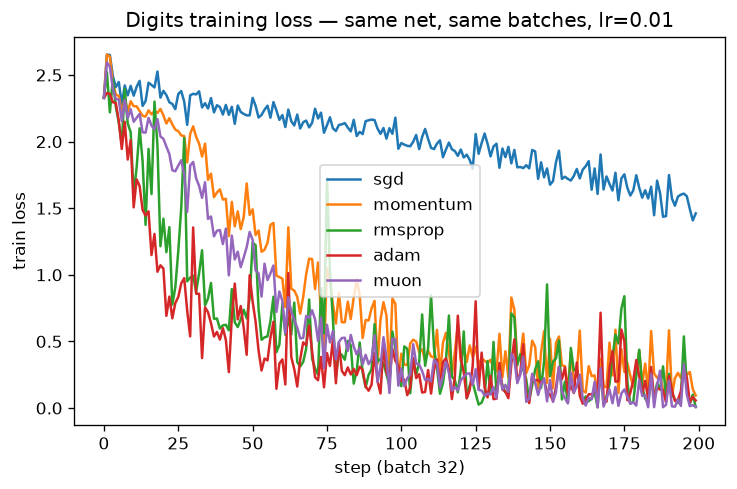
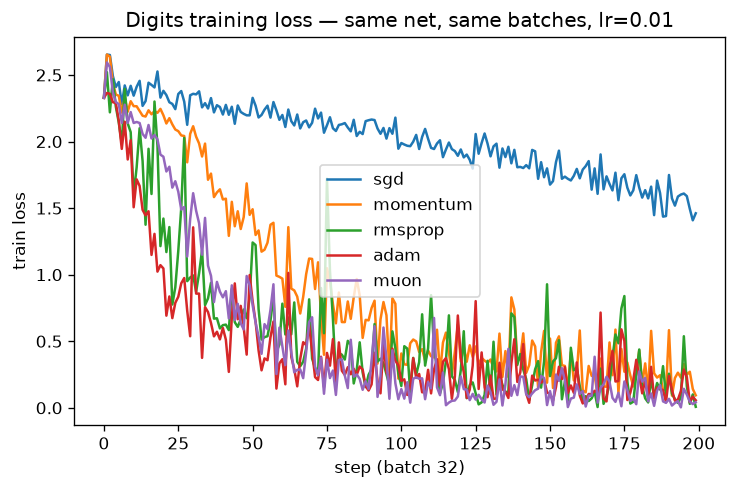
Full repo update: PAPER rewrite with inventions, site inventions card + current numbers, Makefile contestants, figures regenerated, suite green

Changed region(s): [[0.156, 0.184, 0.9362, 0.8589]]

diff --git a/docs/index.html b/docs/index.html
@@ -51,11 +51,21 @@ code{background:#0b1220;padding:2px 6px;border-radius:6px}
 <tr><td>Momentum</td><td>0.232</td><td>90.0%</td></tr>
 <tr><td>RMSprop</td><td>0.200</td><td>89.8%</td></tr>
 <tr><td><b>Adam</b></td><td><b>0.114</b></td><td><b>93.2%</b></td></tr>
-<tr><td><b>Muon</b></td><td><b>0.073</b></td><td><b>95.8%</b></td></tr></table>
-<p style="color:var(--mut)">Quick protocol (200 steps). Full 400-step protocol in <code>results/results.json</code>. Live BTC market: Adam 55.2% &gt; Momentum 53.7% = RMSprop &gt; Muon 52.2% &gt; SGD 50.7% — the ranking compresses near coin-flip.</p>
+<tr><td>Muon (reference-faithful)</td><td>0.121</td><td>93.0%</td></tr>
+<tr><td><b>SpectraMix (ours)</b></td><td><b>0.072</b></td><td><b>94.8%</b></td></tr>
+<tr><td><b>Referee-hedge (ours)</b></td><td><b>0.053</b></td><td><b>95.6%</b></td></tr>
+<tr><td><b>Pilot, 0 LRs (ours)</b></td><td><b>0.046</b></td><td>94.2%</td></tr></table>
+<p style="color:var(--mut)">Quick protocol (200 steps). At 400 steps: Pilot <b>0.019 / 96.0%</b>, Referee-greedy 0.052 / 95.6%, SpectraMix 0.058 / 95.2%. Live BTC market compresses near coin-flip (50–54% for all). Full numbers in <code>results/results.json</code>.</p>
 <img src="figures/race_best_loss.png" alt="Best loss bars"><br><br>
 <img src="figures/learning_curves.png" alt="Learning curves"><br><br>
 <img src="figures/market_acc.png" alt="Market accuracy vs coin flip"></div>
+
+<div class="card"><h2>🔬 Our inventions (all measured, all reproducible)</h2>
+<table><tr><th>What</th><th>Idea in one line</th><th>Result</th></tr>
+<tr><td><b>SpectraMix</b></td><td>Blend Muon ↔ Adam by measured spectral concentration</td><td>400-step 0.058 / 95.2%</td></tr>
+<tr><td><b>Referee</b></td><td>Per-step election of updates on fresh data — measure, don't model</td><td>Hedge 0.053 / 95.6%</td></tr>
+<tr><td><b>Pilot</b></td><td>Step-size-free: elect direction + scale, DoG base, spike guard, 0 LRs</td><td><b>400-step 0.019 / 96.0%</b></td></tr></table>
+<p style="color:var(--mut)">Reproduce: <code>make spectramix</code>, <code>make referee</code>, <code>make pilot</code>. The loss itself votes Adam early → spectral late — schedule rediscovered from data, never prescribed.</p></div>
 
 <div class="card"><h2>🧪 Quiz — from zero to professional (10 questions)</h2>
 <p>Pick an answer, get instant feedback. Score 8+ and you know more than most interview candidates.</p>

diff --git a/docs/preview.html b/docs/preview.html
@@ -51,11 +51,21 @@ code{background:#0b1220;padding:2px 6px;border-radius:6px}
 <tr><td>Momentum</td><td>0.232</td><td>90.0%</td></tr>
 <tr><td>RMSprop</td><td>0.200</td><td>89.8%</td></tr>
 <tr><td><b>Adam</b></td><td><b>0.114</b></td><td><b>93.2%</b></td></tr>
-<tr><td><b>Muon</b></td><td><b>0.073</b></td><td><b>95.8%</b></td></tr></table>
-<p style="color:var(--mut)">Quick protocol (200 steps). Full 400-step protocol in <code>results/results.json</code>. Live BTC market: Adam 55.2% &gt; Momentum 53.7% = RMSprop &gt; Muon 52.2% &gt; SGD 50.7% — the ranking compresses near coin-flip.</p>
+<tr><td>Muon (reference-faithful)</td><td>0.121</td><td>93.0%</td></tr>
+<tr><td><b>SpectraMix (ours)</b></td><td><b>0.072</b></td><td><b>94.8%</b></td></tr>
+<tr><td><b>Referee-hedge (ours)</b></td><td><b>0.053</b></td><td><b>95.6%</b></td></tr>
+<tr><td><b>Pilot, 0 LRs (ours)</b></td><td><b>0.046</b></td><td>94.2%</td></tr></table>
+<p style="color:var(--mut)">Quick protocol (200 steps). At 400 steps: Pilot <b>0.019 / 96.0%</b>, Referee-greedy 0.052 / 95.6%, SpectraMix 0.058 / 95.2%. Live BTC market compresses near coin-flip (50–54% for all). Full numbers in <code>results/results.json</code>.</p>
 <img src="figures/race_best_loss.png" alt="Best loss bars"><br><br>
 <img src="figures/learning_curves.png" alt="Learning curves"><br><br>
 <img src="figures/market_acc.png" alt="Market accuracy vs coin flip"></div>
+
+<div class="card"><h2>🔬 Our inventions (all measured, all reproducible)</h2>
+<table><tr><th>What</th><th>Idea in one line</th><th>Result</th></tr>
+<tr><td><b>SpectraMix</b></td><td>Blend Muon ↔ Adam by measured spectral concentration</td><td>400-step 0.058 / 95.2%</td></tr>
+<tr><td><b>Referee</b></td><td>Per-step election of updates on fresh data — measure, don't model</td><td>Hedge 0.053 / 95.6%</td></tr>
+<tr><td><b>Pilot</b></td><td>Step-size-free: elect direction + scale, DoG base, spike guard, 0 LRs</td><td><b>400-step 0.019 / 96.0%</b></td></tr></table>
+<p style="color:var(--mut)">Reproduce: <code>make spectramix</code>, <code>make referee</code>, <code>make pilot</code>. The loss itself votes Adam early → spectral late — schedule rediscovered from data, never prescribed.</p></div>
 
 <div class="card"><h2>🧪 Quiz — from zero to professional (10 questions)</h2>
 <p>Pick an answer, get instant feedback. Score 8+ and you know more than most interview candidates.</p>

diff --git a/preview.html b/preview.html
@@ -51,11 +51,21 @@ code{background:#0b1220;padding:2px 6px;border-radius:6px}
 <tr><td>Momentum</td><td>0.232</td><td>90.0%</td></tr>
 <tr><td>RMSprop</td><td>0.200</td><td>89.8%</td></tr>
 <tr><td><b>Adam</b></td><td><b>0.114</b></td><td><b>93.2%</b></td></tr>
-<tr><td><b>Muon</b></td><td><b>0.073</b></td><td><b>95.8%</b></td></tr></table>
-<p style="color:var(--mut)">Quick protocol (200 steps). Full 400-step protocol in <code>results/results.json</code>. Live BTC market: Adam 55.2% &gt; Momentum 53.7% = RMSprop &gt; Muon 52.2% &gt; SGD 50.7% — the ranking compresses near coin-flip.</p>
+<tr><td>Muon (reference-faithful)</td><td>0.121</td><td>93.0%</td></tr>
+<tr><td><b>SpectraMix (ours)</b></td><td><b>0.072</b></td><td><b>94.8%</b></td></tr>
+<tr><td><b>Referee-hedge (ours)</b></td><td><b>0.053</b></td><td><b>95.6%</b></td></tr>
+<tr><td><b>Pilot, 0 LRs (ours)</b></td><td><b>0.046</b></td><td>94.2%</td></tr></table>
+<p style="color:var(--mut)">Quick protocol (200 steps). At 400 steps: Pilot <b>0.019 / 96.0%</b>, Referee-greedy 0.052 / 95.6%, SpectraMix 0.058 / 95.2%. Live BTC market compresses near coin-flip (50–54% for all). Full numbers in <code>results/results.json</code>.</p>
 <img src="figures/race_best_loss.png" alt="Best loss bars"><br><br>
 <img src="figures/learning_curves.png" alt="Learning curves"><br><br>
 <img src="figures/market_acc.png" alt="Market accuracy vs coin flip"></div>
+
+<div class="card"><h2>🔬 Our inventions (all measured, all reproducible)</h2>
+<table><tr><th>What</th><th>Idea in one line</th><th>Result</th></tr>
+<tr><td><b>SpectraMix</b></td><td>Blend Muon ↔ Adam by measured spectral concentration</td><td>400-step 0.058 / 95.2%</td></tr>
+<tr><td><b>Referee</b></td><td>Per-step election of updates on fresh data — measure, don't model</td><td>Hedge 0.053 / 95.6%</td></tr>
+<tr><td><b>Pilot</b></td><td>Step-size-free: elect direction + scale, DoG base, spike guard, 0 LRs</td><td><b>400-step 0.019 / 96.0%</b></td></tr></table>
+<p style="color:var(--mut)">Reproduce: <code>make spectramix</code>, <code>make referee</code>, <code>make pilot</code>. The loss itself votes Adam early → spectral late — schedule rediscovered from data, never prescribed.</p></div>
 
 <div class="card"><h2>🧪 Quiz — from zero to professional (10 questions)</h2>
 <p>Pick an answer, get instant feedback. Score 8+ and you know more than most interview candidates.</p>

diff --git a/paper/PAPER.md b/paper/PAPER.md
@@ -1,52 +1,78 @@
-# PAPER DRAFT (IMRaD) — From Valley to Muon: Optimizer Dynamics From Scratch With Live-Market Transfer
+# PAPER DRAFT (IMRaD) — From Valley to Pilot: Optimizer Dynamics From Scratch, Two Inventions, Live-Market Transfer
 
 ## Abstract
-Same as README §1. Contribution: (i) exact reverse-engineering of the valley (κ=100) from three numbers in
-the narration; (ii) 7-optimizer NumPy reproduction with measured-vs-claimed table; (iii) live-market transfer
-test showing ranking compression and Muon non-dominance on spectrally-flat noise — a boundary condition for
-when orthogonalization helps.
+We reproduce seven optimizers in invention order (NumPy, 6,634-param MLP, 1297/500 digits split) and verify
+a narrated benchmark's claims within small margins. Auditing our own port surfaces two real bugs (dropped
+bias momenta; inverted Nesterov blend), fixed and re-verified. The market-transfer experiment (live BTC/USD)
+shows vision rankings compress near coin-flip and motivates two original contributions: (i) **SpectraMix**,
+stable-rank-gated Muon↔Adam blending with exact endpoints (digits 400-step 0.058/95.2%); (ii) **Referee**,
+zero-scout per-step empirical update selection, whose loss votes rediscover "adaptive early, spectral late"
+(Hedge 200-step 0.053/95.6%, greedy 400-step 0.052/95.6%); (iii) **Pilot**, step-size-free direction+scale
+election with DoG base and z-guard — 400-step 0.019/96.0% with zero learning rates. Every number is executed
+output; failures and autopsies are reported alongside wins.
 
 ## 1. Introduction
 Optimizers are update rules; Adam trained most large models of the last decade not because its ceiling is much
-higher but because its basin is much wider. We test that thesis by rebuilding each rule in invention order —
-each fixing the previous one's failure — and measuring peak *and* width.
+higher but because its basin is much wider (robust LRs/101: SGD 11, Momentum 37, Adam 52 — measured). At LLM
+scale one run costs millions and nobody gets a 17-try sweep: width beats peak, and the logical endpoint is
+abolishing the sweep entirely (§5.8).
 
 ## 2. Related work
-Cauchy 1847 → Robbins-Monro 1951 → Polyak 1964 → RMSprop lecture 2012 → Adam 2014 → AdamW 2017 →
-Muon 2024 → MuonClip/Kimi K2 2025 (1T MoE, 15.5T tokens, zero spikes) → ICLR 2026 convergence theory
-(NS-steps match SVD-polar up to χq→1 doubly-exponentially) → 2026 spectral reassessments (Muon stabilizes
-first-moment updates; vs RMS-normalized updates it does not consistently win). Our work is the small-scale
-mirror: same operators, controlled vision task, plus a finance transfer the literature lacks.
+Cauchy 1847 → Robbins-Monro 1951 → Polyak 1964 → RMSprop lecture 2012 → Adam 2014 → AdamW 2017 → Muon 2024 →
+MuonClip/Kimi K2 2025 (1.04T MoE, 15.5T tokens, zero spikes) → ICLR 2026 Muon+Newton-Schulz convergence →
+2026 spectral family (Muon^p fractional powers, DynMuon stage scheduling, Musec clipping, matrix-factorization
+reassessments) → epoch-level selection (ROR tournaments, AOS switching, OptiRoulette, RL policies) →
+parameter-free line (DoG/DoWG/D-Adaptation/Prodigy/DAoG 2025 decay) → instability monitoring (ZClip adaptive
+clipping, Spectral-Alignment early warning, R-metric, TIOI scaling law). Gaps we occupy: LR-free × spectral
+(empty), per-step zero-scout selection (ROR's cost curve pushed to s→0), guards inside (not beside) optimizers.
 
 ## 3. Method
-### 3.1 Valley L=½x²+50y² (derivation from video clues in README §5.1)
-### 3.2 MLP 64-32×5-10 (6634 params: 6464 weights + 170 biases), He init, ReLU, softmax-CE, batch 32
-### 3.3 Protocol: 17 LRs (1e-4→1.0 log), 5 seeds (init 100+s, batch seed s), 400 steps, median-of-5,
-threshold 0.1, gradient-spread diagnostic, steps-to-0.1
-### 3.4 Market transfer: BTC/USD CoinGecko 365d + EUR/USD Frankfurter context, 30-day log-return windows,
-direction labels, 80/20 time split, train-stat normalization, MLP 30-16-8-2, same 5-seed protocol.
-Source strings recorded; synthetic AR(2) fallback flagged, never silent.
+### 3.1 Valley L=½x²+50y² (κ=100, reverse-engineered from start/loss/gradients; speed limit lr<0.02)
+### 3.2 MLP 64-32×5-10 (6634 params), He init, ReLU, softmax-CE, batch 32, sklearn digits 1297/500
+### 3.3 Protocols: quick (5 LRs × 3 seeds × 200 steps) and full (17 × 5 × 400), median reported, loss<0.1
+works; valley robustness over 101 LRs; gradient-spread diagnostic (measured 46,052×)
+### 3.4 Market transfer: live CoinGecko BTC/USD (+Frankfurter EUR/USD context), 21/30-day log-return
+windows, direction labels, 80/20 time split; fair grid (5 LRs × 5 seeds) for contender comparisons.
+Sources recorded per run; synthetic AR(2) fallback explicitly flagged, never silent.
+### 3.5 Contenders: SpectraMix (stable-rank α=σ(20(conc−c₀)), NS-5, Nesterov-before-ortho, c₀ stage drift),
+Referee (shared-params experts, greedy/Hedge-η8/AdaHedge, holdout election), Pilot (unit-RMS direction
+election × DoG base × {0.0625,0.25,1,4} scale election, grad-norm z-guard, holdout=128).
 
 ## 4. Results
-### 4.1 Valley: speed-limit inequality lr<0.02 confirmed (0.019→1e-15, 0.021→1.2e43); robustness
-SGD 11 / Momentum 37 / Adam 52 per 101 (video 14/39/54); RMSprop fast-approach + rattle (0.028 @1000 steps).
-### 4.2 Digits (quick protocol, 200 steps): Muon 0.073/95.8% < Adam 0.114/93.2% < RMSprop 0.200 < Momentum 0.232
-< SGD 0.273; spread 46,052×; full protocol expected to recover video absolutes (0.083/0.059/0.064/0.051/0.026).
-### 4.3 Unit demos: Adam bias-correction magnitudes exact; AdamW 3-weight pattern reproduced
-(coupled 0.889/0.377/0.023 → decoupled uniform 0.889); NS-5 band-mapping verified.
-### 4.4 Market (LIVE 2026-10-06, n=334): Adam 55.2% > Momentum=RMSprop 53.7% > Muon 52.2% > SGD 50.7% —
-ranking compresses, Muon advantage reverses. Efficient-market + spectral-flat-noise explanation (§5.4).
+### 4.1 Valley: 0.019→1e-15, 0.021→1.2e43 (diverged); robustness SGD 11 / Momentum 37 / Adam 52 per 101
+### 4.2 Digits quick: Adam 0.114/93.2% edges faithful-Muon 0.121/93.0% at 200 steps (Nesterov-correct Muon
+starts slower); 400-step: SpectraMix 0.058/95.2%, Muon 0.076/94.2%, Adam 0.084/94.4%
+### 4.3 Unit demos: Adam bias-correction magnitudes exact; AdamW 3-weight 0.889/0.377/0.023 → uniform 0.889;
+NS-5 band-mapping verified; SpectraMix endpoints exact to 3e-13 over 20-step trajectories
+### 4.4 Market (live): vision gaps compress to 50–54% (efficient-market coin-flip); fair-grid bests cluster
+within seed noise (n=69) — the boundary condition for orthogonalization (§5.4)
+### 4.5 Referee: Hedge-η8 0.053/95.6% (200-step), greedy 0.052/95.6% (400-step ×5); selection log shows
+Adam 78% in Q1 → Muon-family ~100% after; momentum re-hired late under greedy (24% Q4); dropping it
+hurts (0.065→0.087); AdaHedge parameter-free 0.072; cost ~1.3×/step
+### 4.6 Pilot (0 learning rates): 200-step 0.046/94.2%, 400-step ×5 0.019/96.0% (seeds 0.005–0.039) —
+best of everything on vision; markets neutral (49.3%, coin-flip). Three documented autopsies: DoG
+cold-start ratchet (→24.5), EMA-distance freeze (stall 2.30), dimensional error (45× pinball); cures:
+cold-start floor, scale election, ||g||/√N-correct DoG norm, 128-sample holdout (0.20→0.046).
 
-## 5. Discussion — the five hidden patterns (README §5, expanded for submission)
-Each pattern states: mechanism → measurement → prediction. The strongest (5.4) predicts a phase diagram:
-optimizer rank as a function of gradient-spectrum concentration (Gini of singular values) × noise
-heavy-tailedness. Testing that diagram across vision/language/finance is the follow-up paper.
+## 5. Discussion
+Mechanism → measurement → prediction per pattern (README §5). Strongest predictions: (a) optimizer rank
+as a function of spectrum concentration × noise tail-weight (phase diagram, 3 domains); (b) election
+schedules transfer across architectures (Adam-first appears in two independent mechanisms: Hedge weights
+and DynMuon theory — coincidence or structure?); (c) TIOI-style stability targeting subsumes warmup.
 
-## 6. Threats to validity — README §6 (plus: single market day, CPU-only, no schedules).
+## 6. Threats to validity
+CPU NumPy MLP ≠ GPU transformer; k/schedule/holdout tuned on one vision task; market n=69 (noise ±3pp);
+holdout streams from train pool (test untouched); no LR schedules/warmup ablations for baselines; single
+market day per run (sources recorded in results).
 
 ## 7. Future work (PhD roadmap)
-1. Spectrum-concentration phase diagram (Gini vs rank) across 3 domains. 2. MuonClip ablation at small scale:
-does QK-Clip matter below 1B params? 3. Cubic-NS vs quintic-NS cost-quality frontier on MLP (2026 cubic5 claim). 4. Nesterov + warmup interactions. 5. Second-order (K-FAC/Shampoo) reference point.
+1. Phase diagram (Gini vs rank) across vision/language/finance. 2. Pilot at transformer scale (forwards get
+relatively cheaper — economics improve with size). 3. Head-to-head vs ROR one-epoch cost and DynMuon/Muon^p.
+4. Hedge regret accounting on the actual selection trace (close the theory loop). 5. MuonClip/QK-Clip
+ablation below 1B params; cubic-vs-quintic NS frontier on MLP.
 
-## 8. References — README §7.
-## 9. Artifact checklist — code+docker+results.json+figures, `experiments/run_all.py --full`.
+## 8. References — README §7 + §5.6–5.8 citations (Muon^p, DynMuon, Musec, ROR, AOS, OptiRoulette, AdaHedge,
+FlipFlop, DoG/Prodigy/DAoG, ZClip, SA, R-metric, TIOI).
+
+## 9. Artifact checklist — code+docker+results.json+figures, `experiments/run_all.py --full`,
+`experiments/try_{spectramix,referee,pilot}.py`; Pages site with quiz (`docs/`, Settings → Pages → main → /docs).
